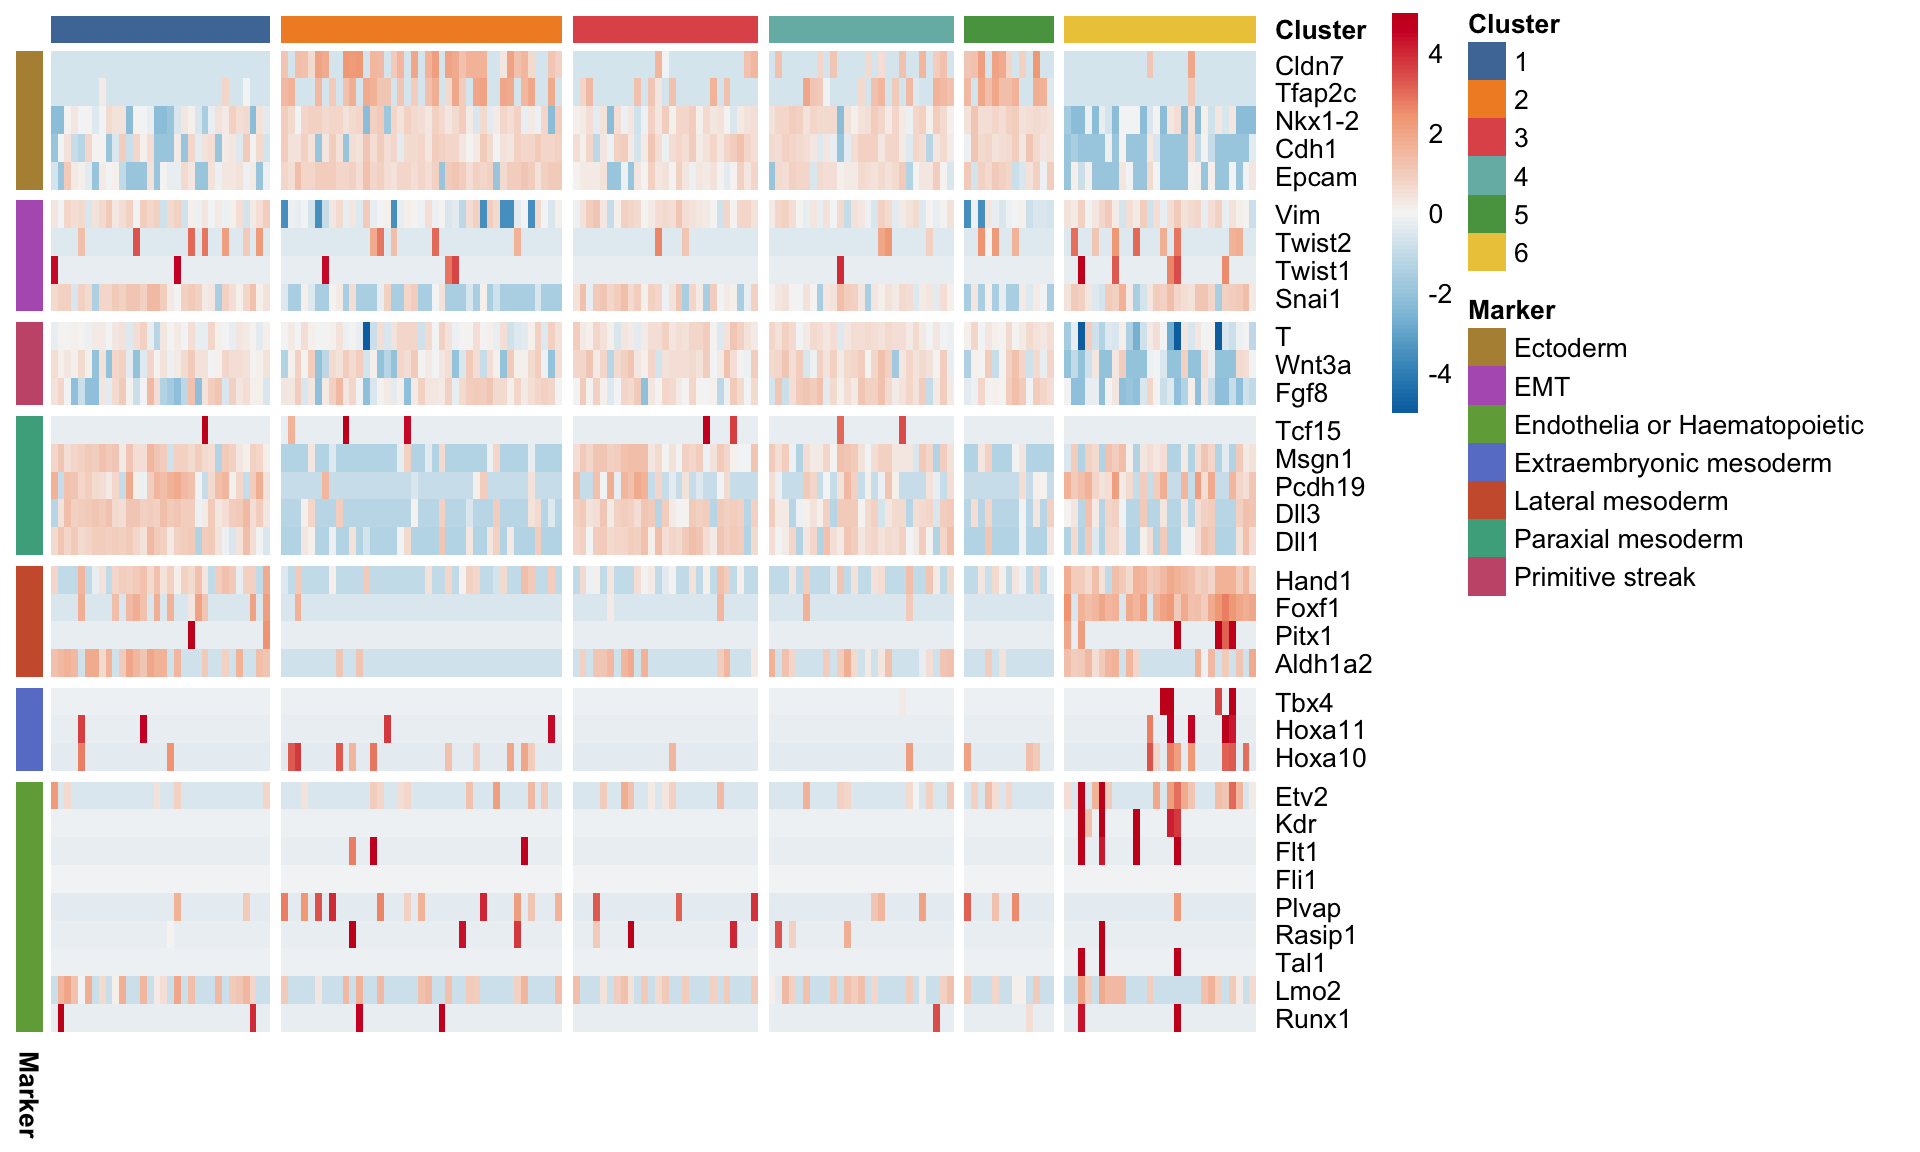
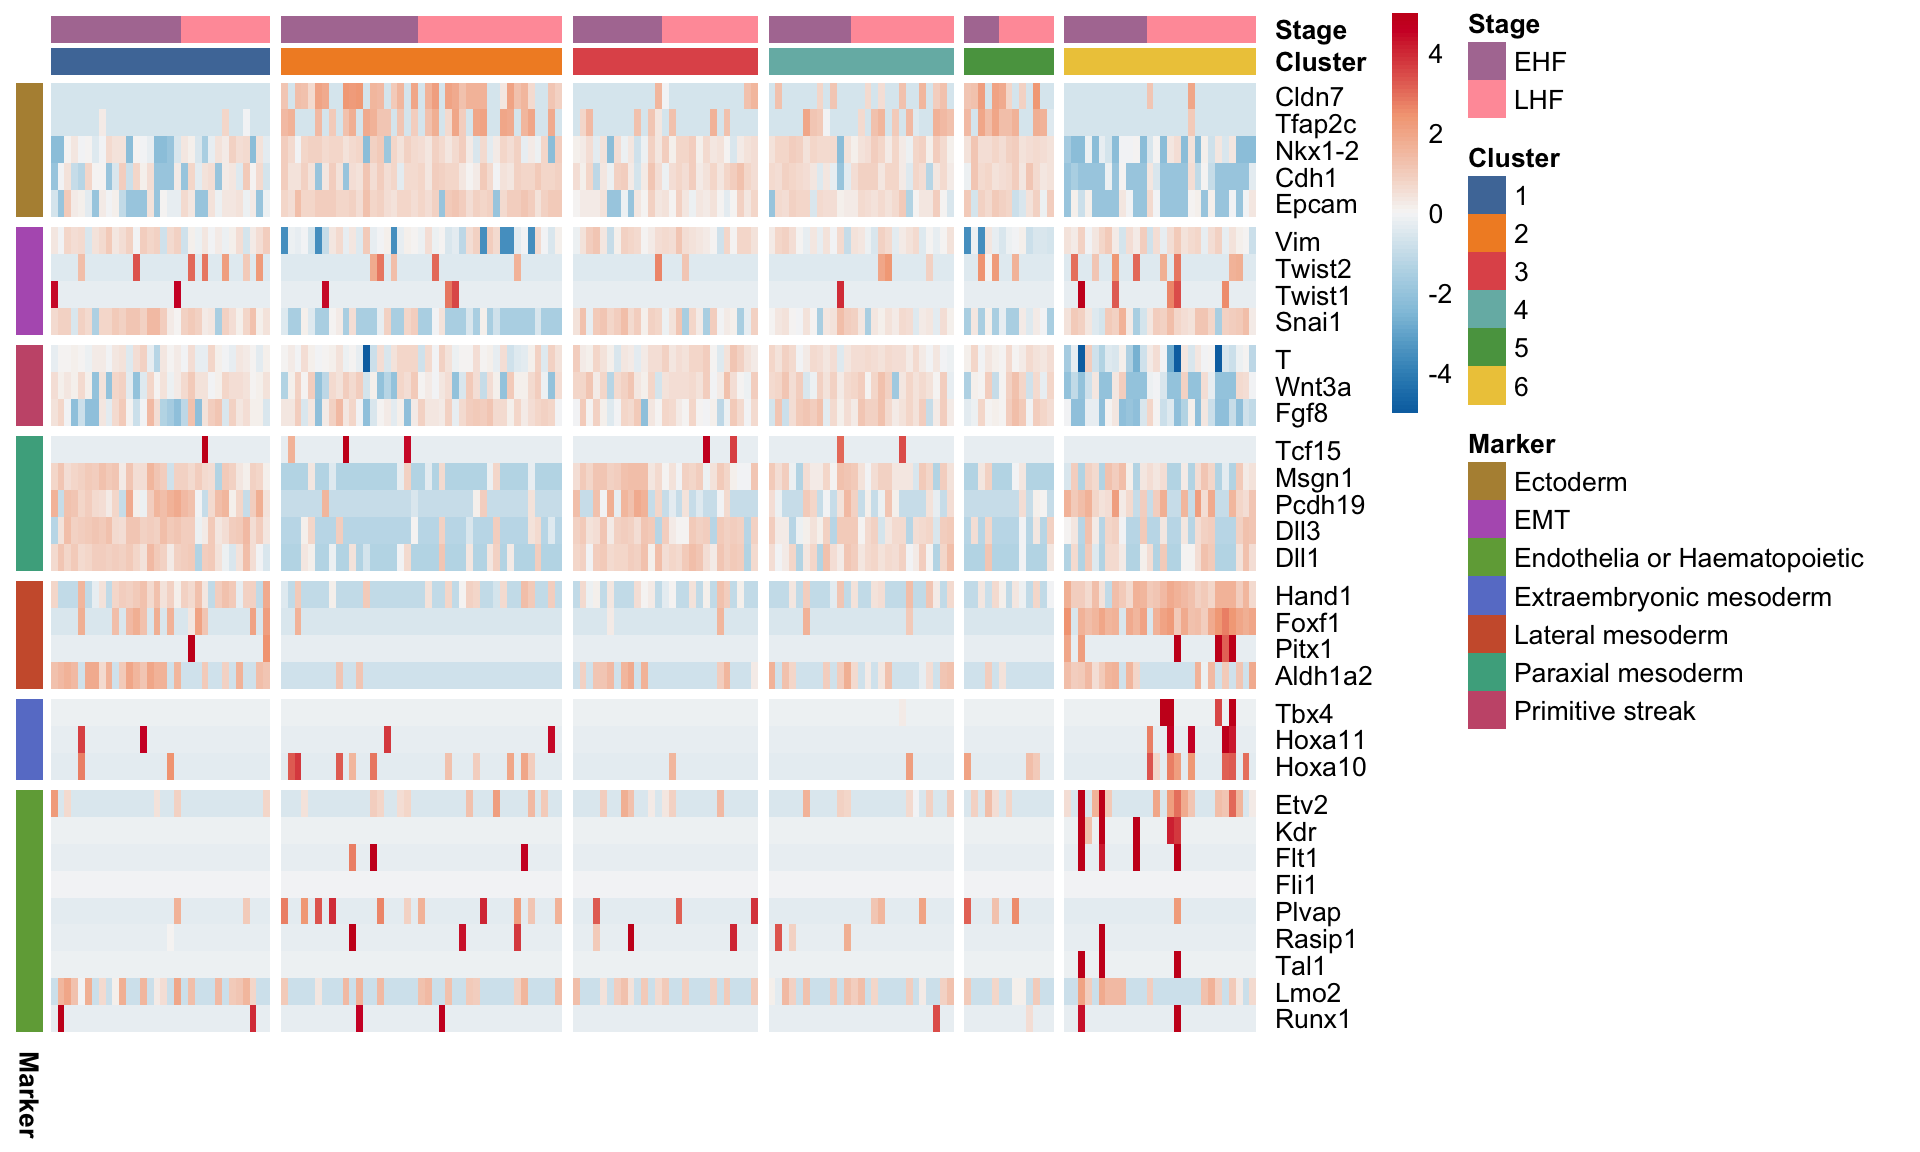
Build

Changed region(s): [[0.0, 0.0, 0.7188, 0.875], [0.75, 0.0, 0.9688, 0.6562]]

diff --git a/docs/lineage-markers.html b/docs/lineage-markers.html
@@ -553,16 +553,16 @@ This reproducible <a href="http://rmarkdown.rstudio.com">R Markdown</a> analysis
 <div class="panel panel-default">
 <div class="panel-heading">
 <p class="panel-title">
-<a data-toggle="collapse" data-parent="#workflowr-checks" href="#strongRepositoryversionstrongahrefhttpsgithubcomjma1991LPMPtree67b47a00a0bd6b4cf784af1d885690a65429279atargetblank67b47a0a"> <span class="glyphicon glyphicon-ok text-success" aria-hidden="true"></span> <strong>Repository version:</strong> <a href="https://github.com/jma1991/LPMP/tree/67b47a00a0bd6b4cf784af1d885690a65429279a" target="_blank">67b47a0</a> </a>
+<a data-toggle="collapse" data-parent="#workflowr-checks" href="#strongRepositoryversionstrongahrefhttpsgithubcomjma1991LPMPtree9b38eedd2bc8c4bf0951caa57667c405259c7a79targetblank9b38eeda"> <span class="glyphicon glyphicon-ok text-success" aria-hidden="true"></span> <strong>Repository version:</strong> <a href="https://github.com/jma1991/LPMP/tree/9b38eedd2bc8c4bf0951caa57667c405259c7a79" target="_blank">9b38eed</a> </a>
 </p>
 </div>
[2 lines of base64/hex data omitted]
 <div class="panel-body">
 <p>
 Great! You are using Git for version control. Tracking code development and connecting the code version to the results is critical for reproducibility.
 </p>
 <p>
-The results in this page were generated with repository version <a href="https://github.com/jma1991/LPMP/tree/67b47a00a0bd6b4cf784af1d885690a65429279a" target="_blank">67b47a0</a>. See the <em>Past versions</em> tab to see a history of the changes made to the R Markdown and HTML files.
+The results in this page were generated with repository version <a href="https://github.com/jma1991/LPMP/tree/9b38eedd2bc8c4bf0951caa57667c405259c7a79" target="_blank">9b38eed</a>. See the <em>Past versions</em> tab to see a history of the changes made to the R Markdown and HTML files.
 </p>
 <p>
 Note that you need to be careful to ensure that all relevant files for the analysis have been committed to Git prior to generating the results (you can use <code>wflow_publish</code> or <code>wflow_git_commit</code>). workflowr only checks the R Markdown file, but you know if there are other scripts or data files that it depends on. Below is the status of the Git repository when the results were generated:
@@ -619,6 +619,40 @@ Message
 </tr>
 </thead>
 <tbody>
+<tr>
+<td>
+Rmd
+</td>
+<td>
+<a href="https://github.com/jma1991/LPMP/blob/9b38eedd2bc8c4bf0951caa57667c405259c7a79/analysis/lineage-markers.Rmd" target="_blank">9b38eed</a>
+</td>
+<td>
+James Ashmore
+</td>
+<td>
+2021-02-09
+</td>
+<td>
+Build
+</td>
+</tr>
+<tr>
+<td>
+html
+</td>
+<td>
+<a href="https://rawcdn.githack.com/jma1991/LPMP/32810be9235a16e6a3db8f7a16be5dde36afa2b0/docs/lineage-markers.html" target="_blank">32810be</a>
+</td>
+<td>
+James Ashmore
+</td>
+<td>
+2021-02-09
+</td>
+<td>
+Build
+</td>
+</tr>
 <tr>
 <td>
 Rmd
@@ -704,12 +738,14 @@ sce &lt;- sce[, order(sce$cluster_integrated)]</code></pre>
 <p>Make feature names unique:</p>
 <pre class="r"><code>rownames(sce) &lt;- uniquifyFeatureNames(rowData(sce)$gene_id, rowData(sce)$gene_name)</code></pre>
 <p>Define colour palettes:</p>
-<pre class="r"><code>cluster.palette &lt;- c(&quot;1&quot; = &quot;#4E79A7&quot;,
-                    &quot;2&quot; = &quot;#F28E2B&quot;,
-                    &quot;3&quot; = &quot;#E15759&quot;,
-                    &quot;4&quot; = &quot;#76B7B2&quot;,
-                    &quot;5&quot; = &quot;#59A14F&quot;,
-                    &quot;6&quot; = &quot;#EDC948&quot;)
+<pre class="r"><code>cluster.palette &lt;- c(
+  &quot;1&quot; = &quot;#4E79A7&quot;,
+  &quot;2&quot; = &quot;#F28E2B&quot;,
+  &quot;3&quot; = &quot;#E15759&quot;,
+  &quot;4&quot; = &quot;#76B7B2&quot;,
+  &quot;5&quot; = &quot;#59A14F&quot;,
+  &quot;6&quot; = &quot;#EDC948&quot;
+)
 
 marker.palette &lt;- c(
   &quot;Ectoderm&quot; = &quot;#b49041&quot;,
@@ -719,6 +755,11 @@ marker.palette &lt;- c(
   &quot;Lateral mesoderm&quot; = &quot;#cd5d39&quot;,
   &quot;Paraxial mesoderm&quot; = &quot;#4aac8d&quot;,
   &quot;Primitive streak&quot; = &quot;#c85979&quot;
+)
+
+stage.palette &lt;- c(
+  &quot;EHF&quot; = &quot;#B07AA1&quot;,
+  &quot;LHF&quot; = &quot;#FF9DA7&quot;
 )</code></pre>
 <p>Define helper functions:</p>
 <pre class="r"><code>pheatmap.mat &lt;- function(x) {
@@ -780,8 +821,8 @@ mat.z &lt;- pheatmap.mat(mat.x)</code></pre>
 <p>Create annotation:</p>
 <pre class="r"><code>ann &lt;- list(
   row = data.frame(Marker = ids$lineage, row.names = ids$gene_id),
-  col = data.frame(Cluster = sce$cluster_integrated, row.names = colnames(sce)),
-  colors = list(Cluster = cluster.palette, Marker = marker.palette)
+  col = data.frame(Cluster = sce$cluster_integrated, Stage = sce$stage, row.names = colnames(sce)),
+  colors = list(Cluster = cluster.palette, Stage = stage.palette, Marker = marker.palette)
 )</code></pre>
 <p>Plot expression heatmap:</p>
 <pre class="r"><code>pheatmap(
@@ -801,6 +842,43 @@ mat.z &lt;- pheatmap.mat(mat.x)</code></pre>
   show_colnames = FALSE
 )</code></pre>
 <p><img src="figure/lineage-markers.Rmd/unnamed-chunk-11-1.png" width="960" style="display: block; margin: auto;" /></p>
+<p>
+<button type="button" class="btn btn-default btn-xs btn-workflowr btn-workflowr-fig" data-toggle="collapse" data-target="#fig-unnamed-chunk-11-1">
+Past versions of unnamed-chunk-11-1.png
+</button>
+</p>
+<div id="fig-unnamed-chunk-11-1" class="collapse">
+<div class="table-responsive">
+<table class="table table-condensed table-hover">
+<thead>
+<tr>
+<th>
+Version
+</th>
+<th>
+Author
+</th>
+<th>
+Date
+</th>
+</tr>
+</thead>
+<tbody>
+<tr>
+<td>
+<a href="https://github.com/jma1991/LPMP/blob/4c0a2d695996d03fc758c02b13cd8d0395a55364/docs/figure/lineage-markers.Rmd/unnamed-chunk-11-1.png" target="_blank">4c0a2d6</a>
+</td>
+<td>
+James Ashmore
+</td>
+<td>
+2021-02-09
+</td>
+</tr>
+</tbody>
+</table>
+</div>
+</div>
 </div>
 <div id="reconstructed-assay" class="section level3">
 <h3>Reconstructed assay</h3>
@@ -811,8 +889,8 @@ mat.z &lt;- pheatmap.mat(mat.x)</code></pre>
 <p>Create annotation:</p>
 <pre class="r"><code>ann &lt;- list(
   row = data.frame(Marker = ids$lineage, row.names = ids$gene_id),
-  col = data.frame(Cluster = sce$cluster_integrated, row.names = colnames(sce)),
-  colors = list(Cluster = cluster.palette, Marker = marker.palette)
+  col = data.frame(Cluster = sce$cluster_integrated, Stage = sce$stage, row.names = colnames(sce)),
+  colors = list(Cluster = cluster.palette, Stage = stage.palette, Marker = marker.palette)
 )</code></pre>
 <p>Plot expression heatmap:</p>
 <pre class="r"><code>pheatmap(
@@ -832,6 +910,43 @@ mat.z &lt;- pheatmap.mat(mat.x)</code></pre>
   show_colnames = FALSE
 )</code></pre>
 <p><img src="figure/lineage-markers.Rmd/unnamed-chunk-14-1.png" width="960" style="display: block; margin: auto;" /></p>
+<p>
+<button type="button" class="btn btn-default btn-xs btn-workflowr btn-workflowr-fig" data-toggle="collapse" data-target="#fig-unnamed-chunk-14-1">
+Past versions of unnamed-chunk-14-1.png
+</button>
+</p>
+<div id="fig-unnamed-chunk-14-1" class="collapse">
+<div class="table-responsive">
+<table class="table table-condensed table-hover">
+<thead>
+<tr>
+<th>
+Version
+</th>
+<th>
+Author
+</th>
+<th>
+Date
+</th>
+</tr>
+</thead>
+<tbody>
+<tr>
+<td>
+<a href="https://github.com/jma1991/LPMP/blob/4c0a2d695996d03fc758c02b13cd8d0395a55364/docs/figure/lineage-markers.Rmd/unnamed-chunk-14-1.png" target="_blank">4c0a2d6</a>
+</td>
+<td>
+James Ashmore
+</td>
+<td>
+2021-02-09
+</td>
+</tr>
+</tbody>
+</table>
+</div>
+</div>
 </div>
 </div>
 <div id="summary" class="section level2">
